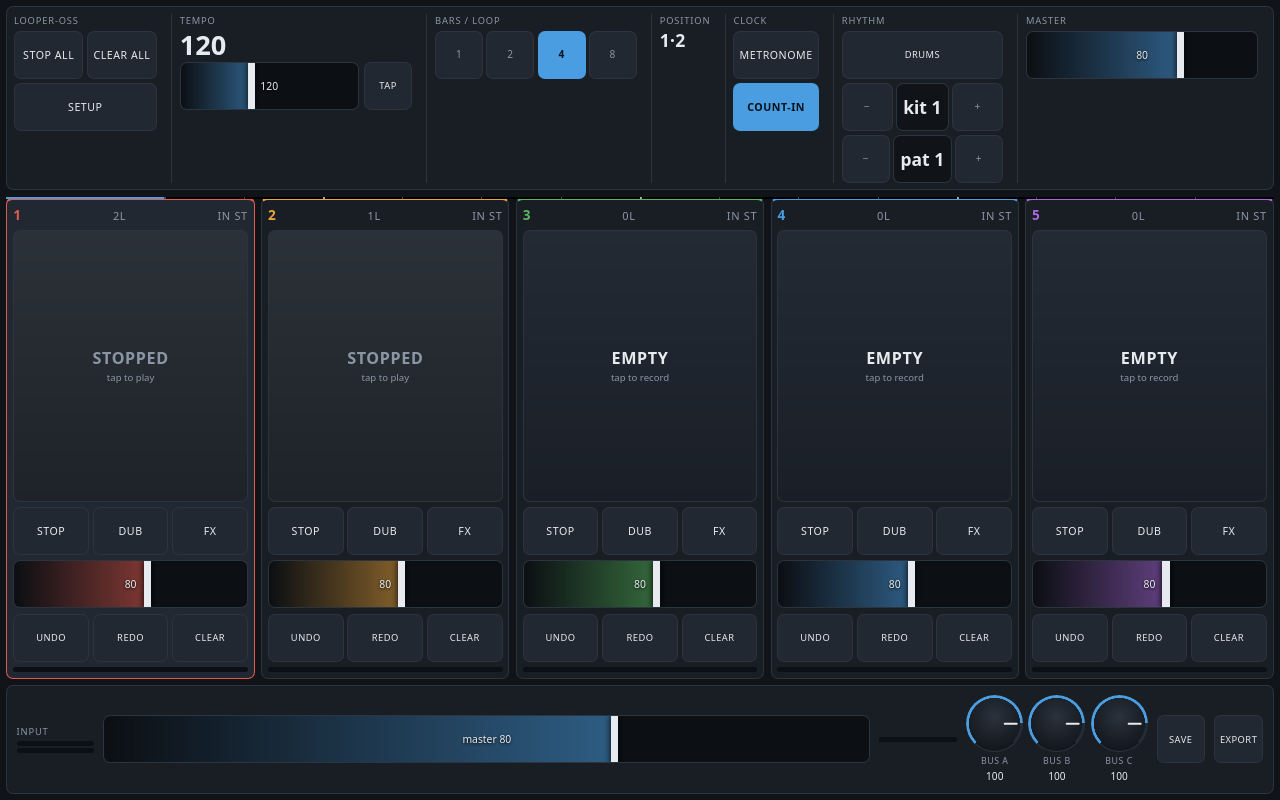
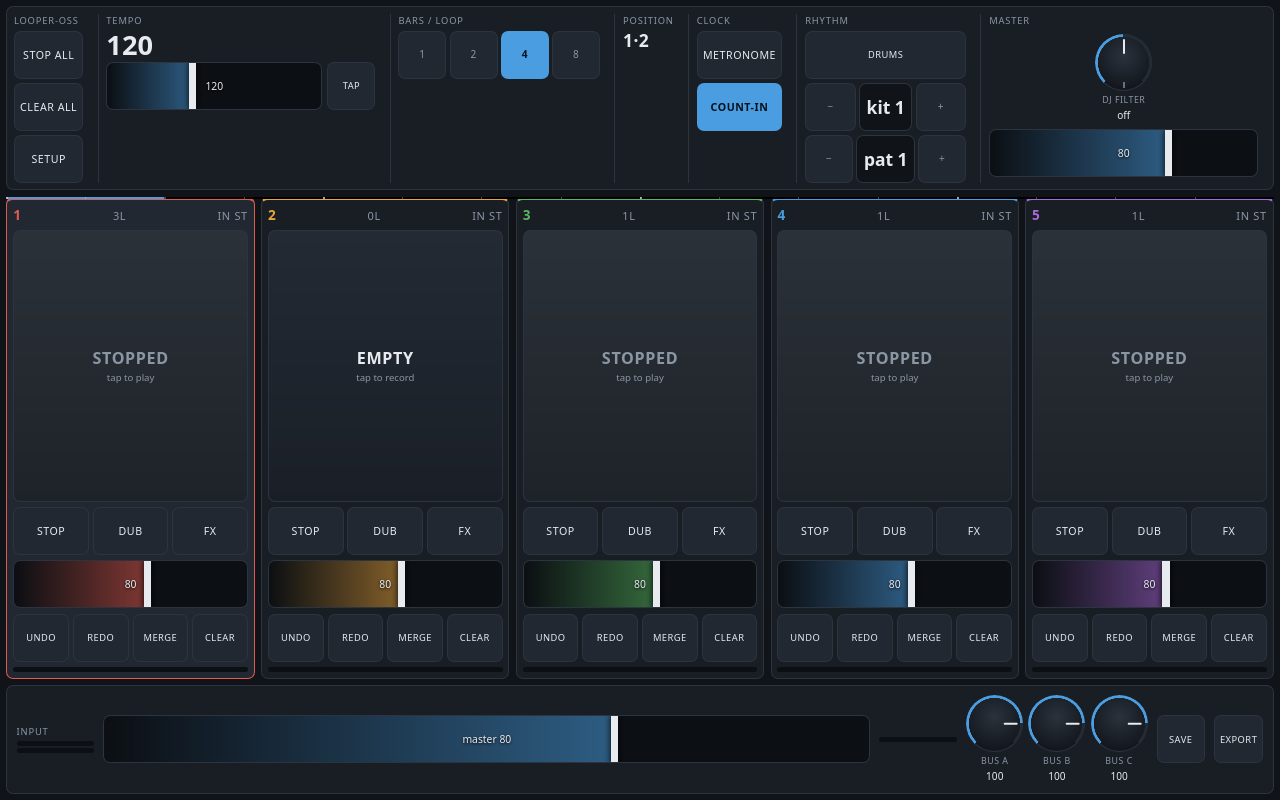
docs: 0.4.0 in the README, fresh screenshots, and the result table in goal.md
- README: a 0.4.0 'what you get' block, the DJ filter and master FX explained
  for a player, the two new setup rows, and the link toggle in the clock table.
- The nine screenshots regenerated in WebKit, so they show the merge button,
  the DJ knob and the new drawer cards instead of 0.3.0.
- goal.md ends with what shipped and the measurement that decided each
  milestone, including the two things the plan did not anticipate (sclang's
  eager &&, and SendReply values starting at msg[3]).

diff --git a/goal.md b/goal.md
@@ -765,6 +765,36 @@ Stated here so the issue can be answered honestly instead of left open forever.
 
 ---
 
+## What shipped, and the evidence
+
+The plan above is the plan; this is what happened. Each milestone ends with the
+measurement that decided it, because "it compiles" is not a result.
+
+| milestone | outcome |
+| --- | --- |
+| M0 | config carry-over landed; the ruler fix proven in WebKit — 0 of 7 beat marks visible inside the playhead fill before, 7 of 7 after |
+| M1 | six new checks; the pre-fix behaviour was recorded first (silent REPLACE left `gains=[0,1]` with the track muted, a stopped track decayed 1.00 → 0.24, redo promoted a layer mid-take) |
+| M2 | `resume detected (600s asleep)` → `engine ready 2.8s after the relaunch`; the device chain `could not open` → `retrying … default` → `engine ready` |
+| M3 | merge layers sums 0.47+0.63 → 1.59 and refuses below two layers; merge by selection frees the sources and leaves the rest alone |
+| M4 | DJ filter at the master meter: bypass 0.0205 → low pass 0.0001, high pass 0.0122, back 0.0205; a filter slot reads 0.0000 against 0.0156 bypass |
+| M5 | a real second SuperCollider peer: 120 → 140 bpm followed, no peer 120 → 120, off → 120 |
+| M6 | Auto Rec (was dead code), per-layer mute, one-shot, copy/swap, phrase browser, input EQ, rhythm cue; FEATURES.md truth pass; issue #3 answered with what shipped and what is deferred |
+| M7 | 0.4.0, 86/86 checks, UI OK, release check clean, AppImage built and run from the staged home it inherits from 0.3.0 |
+
+Two things the plan did not anticipate, both now invariants:
+
+- **`&&` is not lazy in sclang.** `x.notNil && (t - x)` subtracted from nil, which
+  killed the clock-poll routine on its first tick at every boot and made a double
+  tap on a pedal throw. AGENTS §6.28.
+- **`SendReply` values start at `msg[3]`.** Two handlers read `msg[4]`, so every
+  beat looked like beat 0 and `/ldauto` always pointed at track 0 — Auto Rec could
+  never have worked even once armed. AGENTS §6.1 was right; the code was not.
+
+Decisions taken where the plan left a choice: merge layers is destructive with
+tap-to-arm (the layer stack has no spare slot for the originals), and Link's phase
+lock is beat-resolution with a rate nudge rather than a jump (`AUDIO.md` says so
+plainly).
+
 ## Paste this into `/goal`
 
 ```text

diff --git a/README.md b/README.md
@@ -63,6 +63,15 @@ If it's useful, great. If it's broken or annoying, open an issue.
 - **No build step, no framework, no network at runtime.** Offline by
   construction.
 
+**0.4.0 added** — a **DJ filter** knob and **two master FX slots** on the main
+screen, **Ableton Link** (tempo and bar phase from the rest of the rig),
+**merge layers** (four takes into one loop) and **merge tracks by selection**,
+**per-layer mute**, **one-shot playback**, **track copy / swap**, **Auto Rec**
+that actually arms, a **phrase browser**, **per-channel input EQ**, and a rhythm
+**cue send**. It also fixes the layer model losing takes, the audio not coming
+back after a sleep, and the bar ruler hiding behind the playhead. Full detail in
+[`CHANGELOG.md`](CHANGELOG.md).
+
 **0.2 added** — per-track **speed** (varispeed 0.25–4×), **mark / mark back**,
 **replace-overdub**, **bounce all tracks into one**, **clear all**, a
 **synthesised drum engine** (16 kits, 200 patterns, no samples), **four plugin
@@ -390,6 +399,8 @@ looper's fault.
 | **dub decay** | each overdub pass fades the previous layer a little — "sound on sound" fade-out. 0 % keeps everything forever. | 0 %, raise it for ambient layering |
 | **master chain: high pass / low pass** | a filter across the whole mix, for taming rumble or hiss | 0 Hz / 1000 Hz+ is off |
 | **master chain: reverb mix / room size** | one shared reverb; each track has its own send in the fx drawer | 60 % mix, 80 % room |
+| **dj resonance** | how sharp the DJ filter's sweep is; the knob itself is on the main screen | 35 % |
+| **master FX ×2** | two insert slots on the master, each a filter, delay, drive or tremolo with two live knobs | off until you want them |
 
 ### clock — what you play to
 
